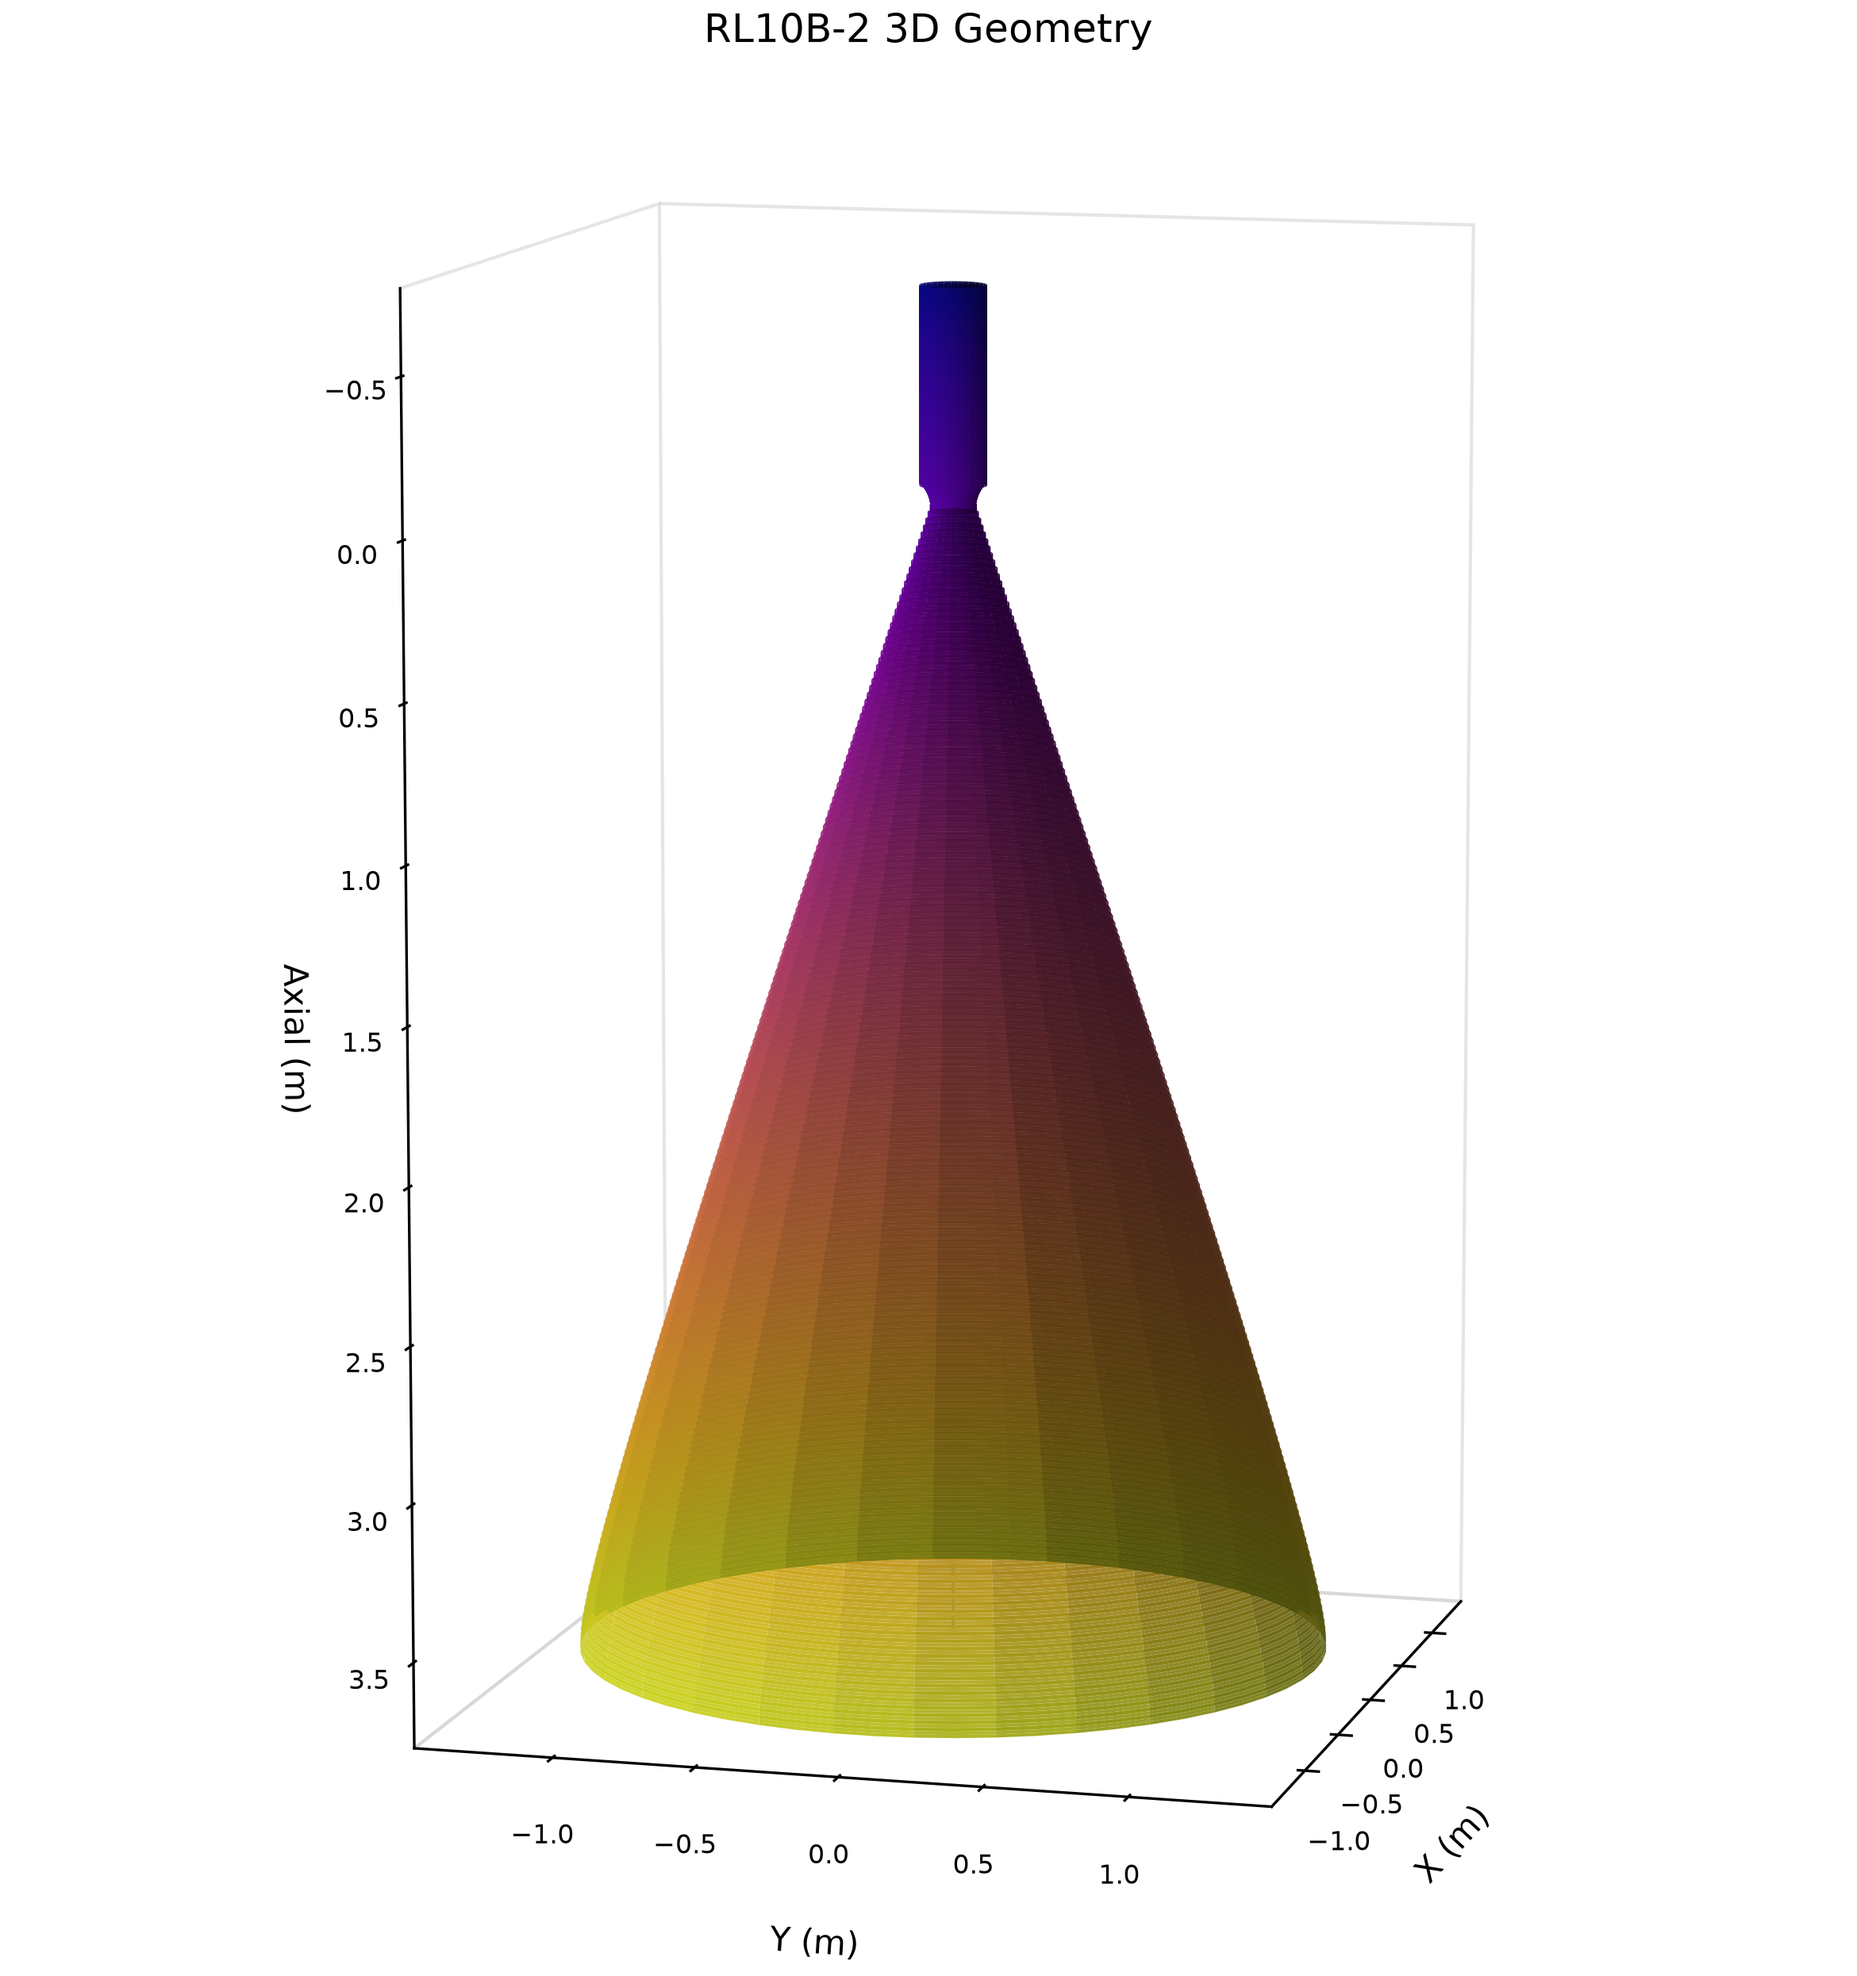
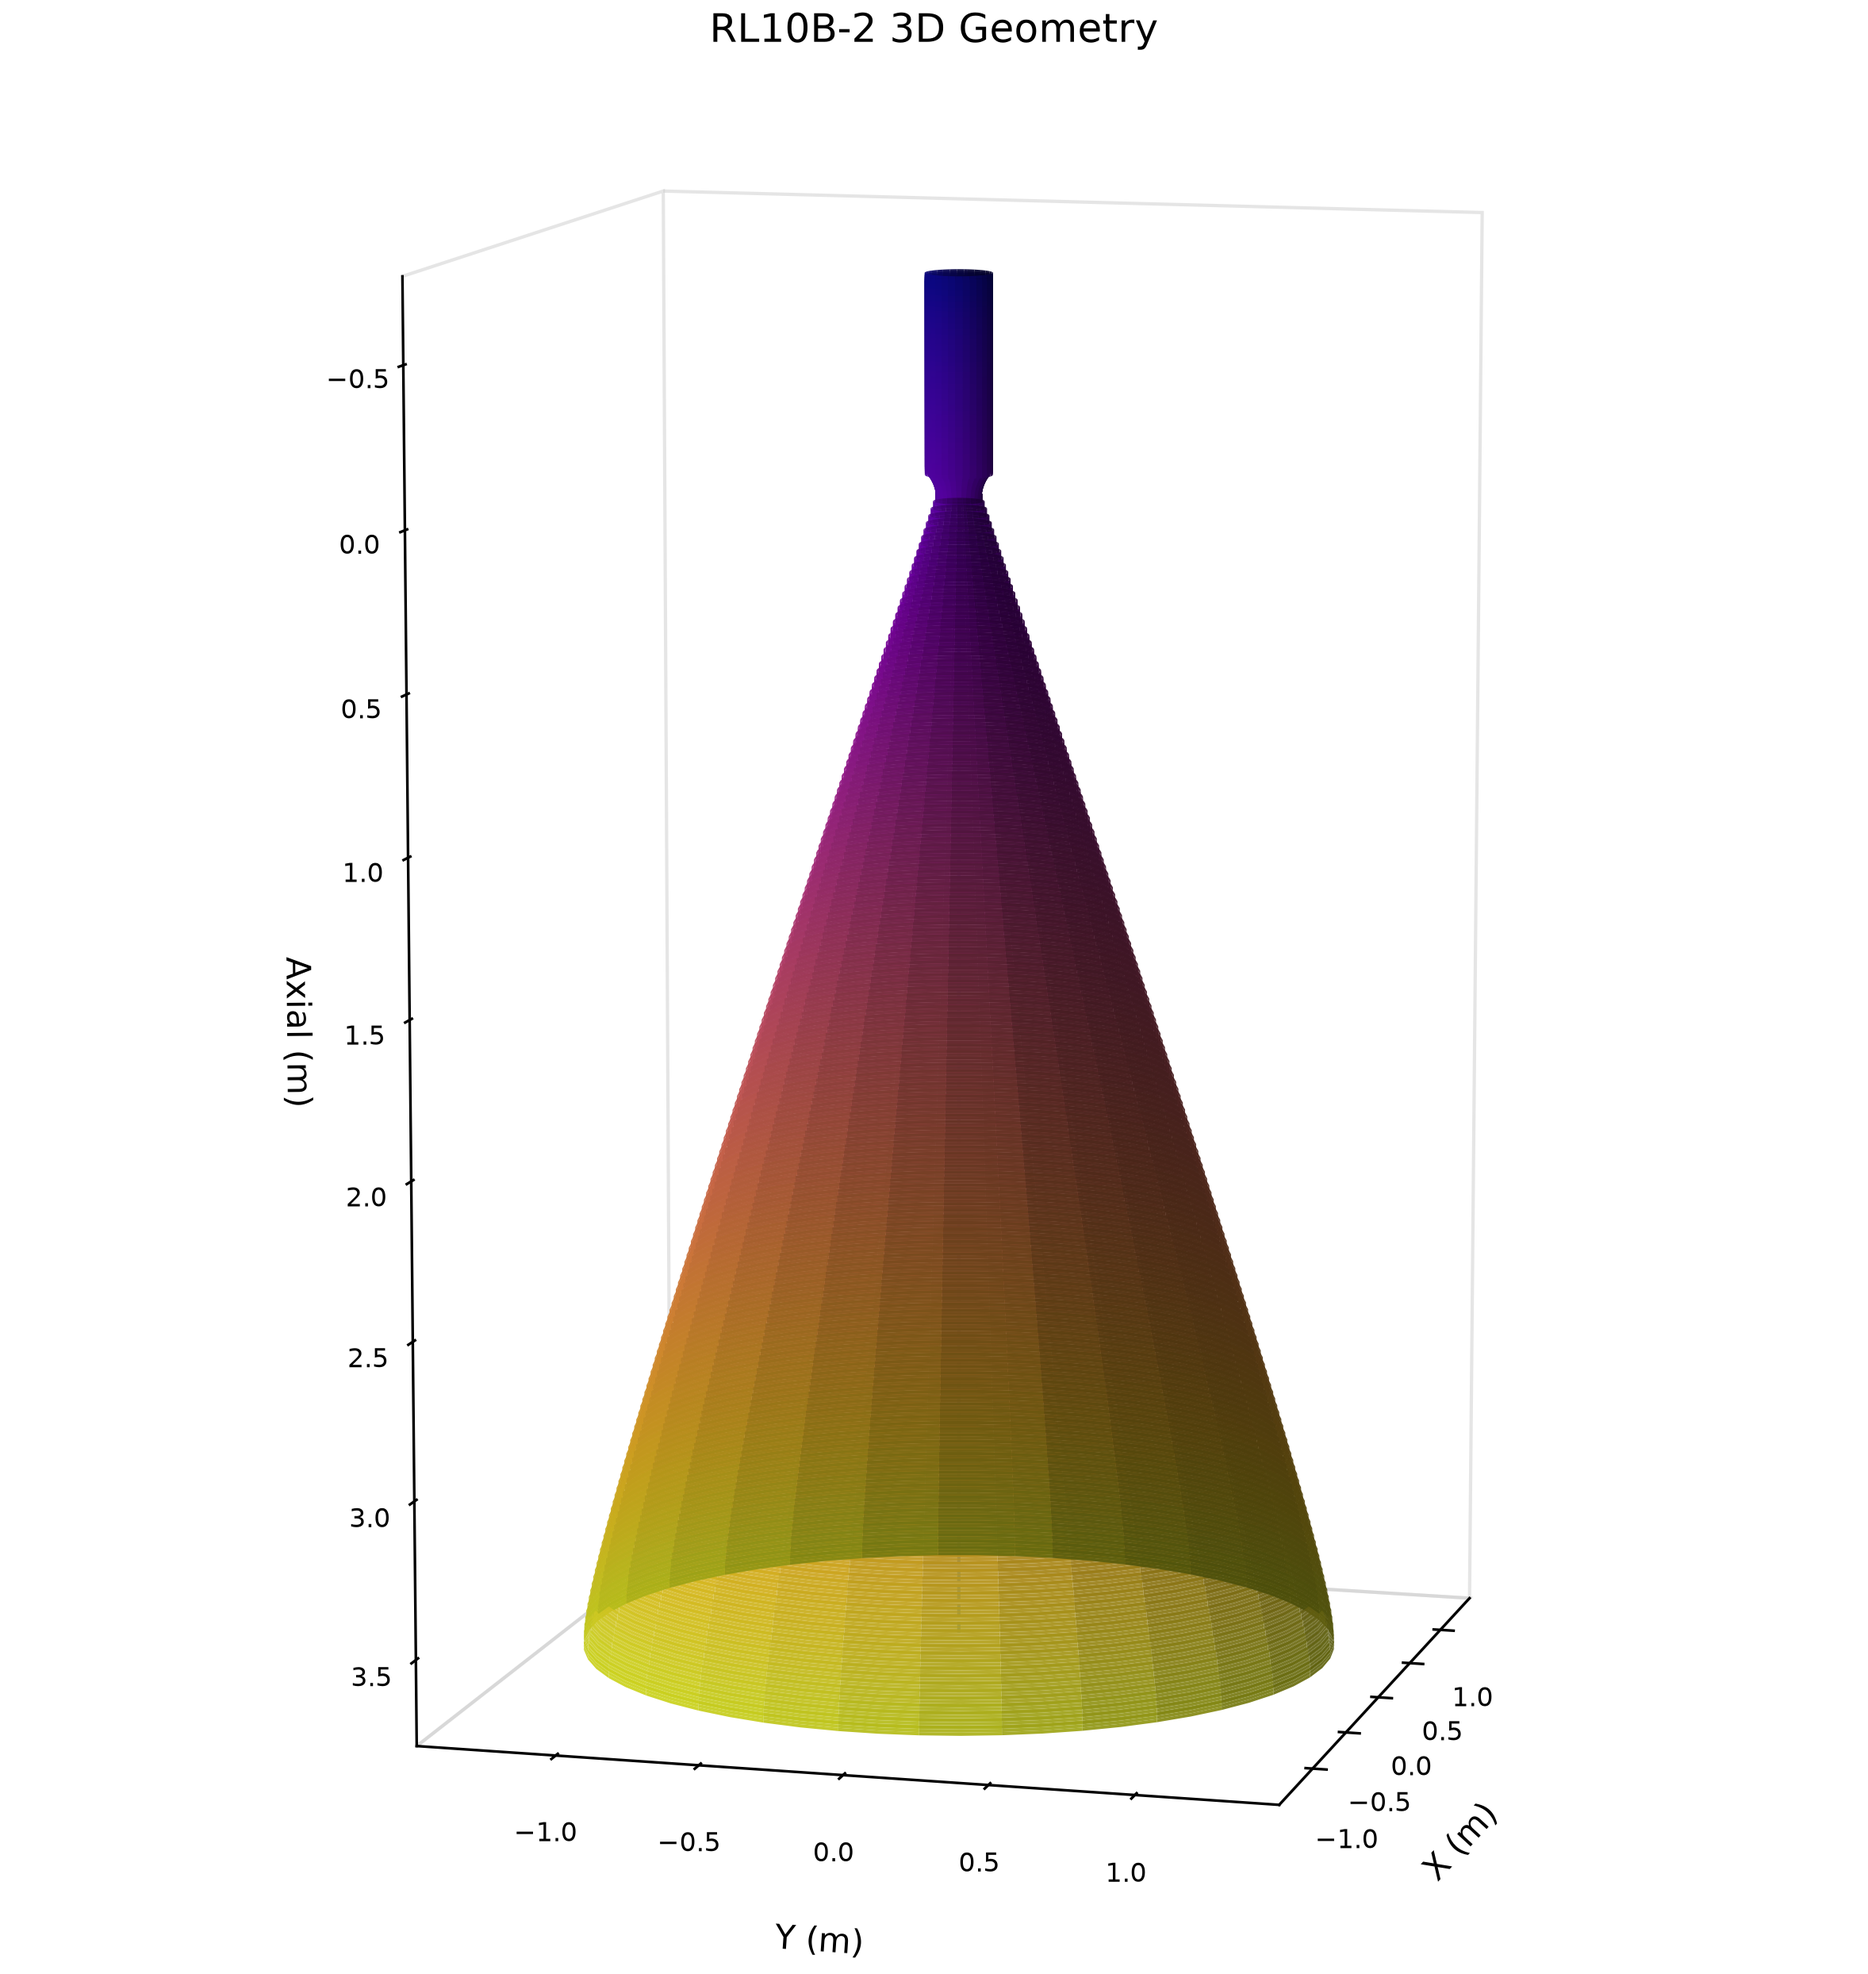
style(viz): reduce top margin in per-engine 3D geometry plots

diff --git a/src/viz/nozzle_3d.py b/src/viz/nozzle_3d.py
@@ -118,8 +118,11 @@ def plot_nozzle_3d(
 
     ax.set_title(
         f"{engine_name} 3D Geometry",
-        fontsize=12, color="black", pad=12,
+        fontsize=12, color="black", pad=8,
     )
+
+    # Reduce top margin
+    plt.subplots_adjust(top=0.92)
 
     # 10. Save
     output_path.parent.mkdir(parents=True, exist_ok=True)
